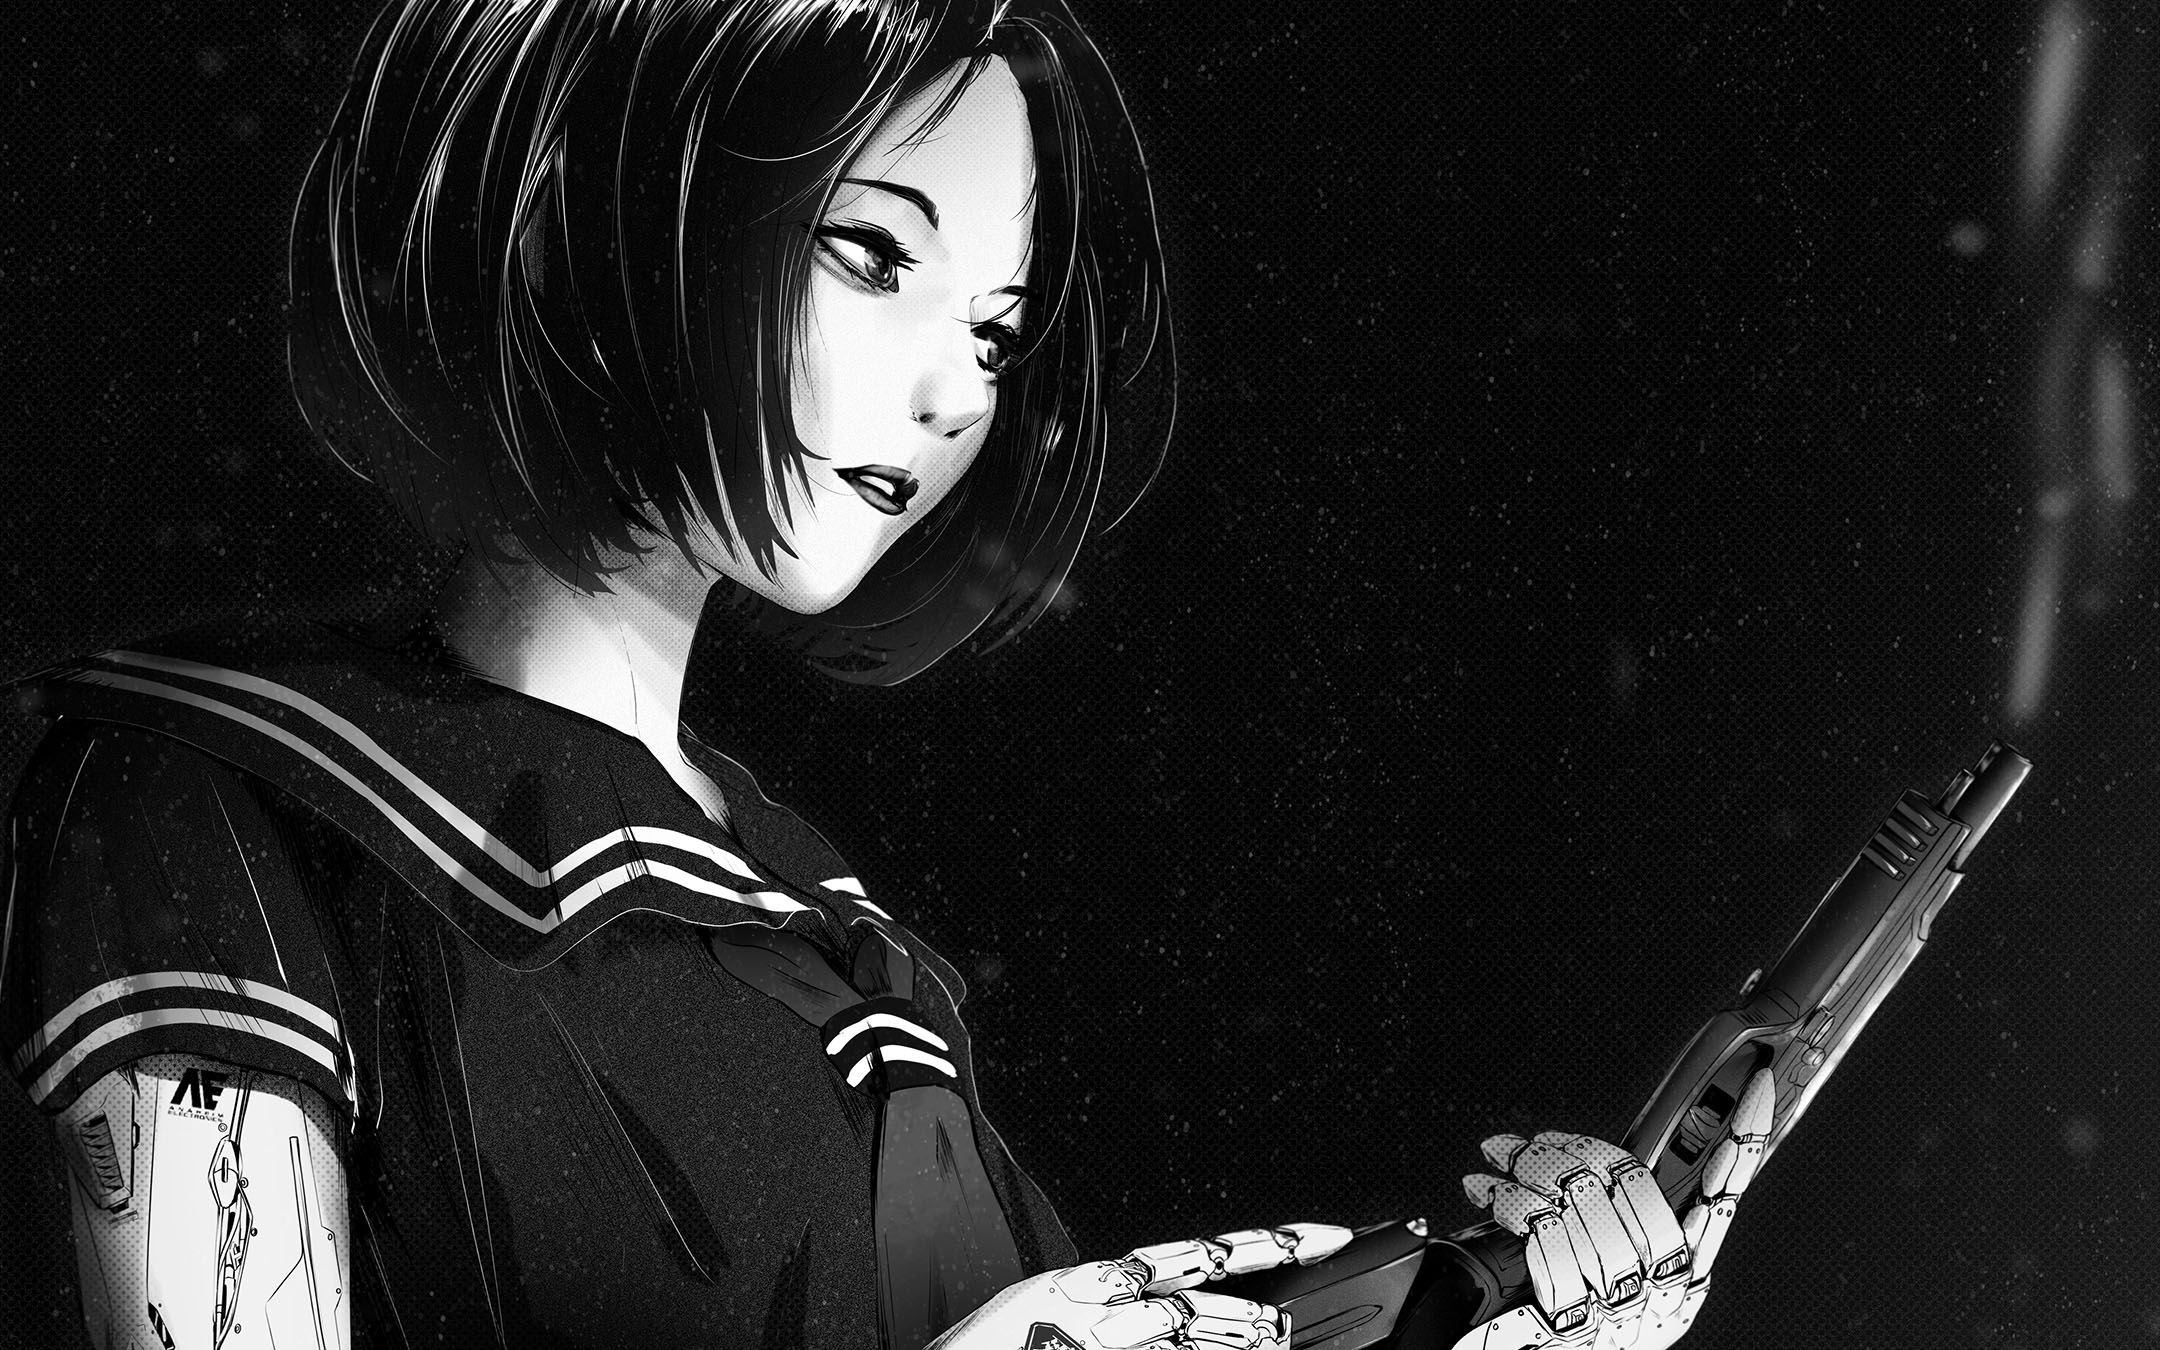
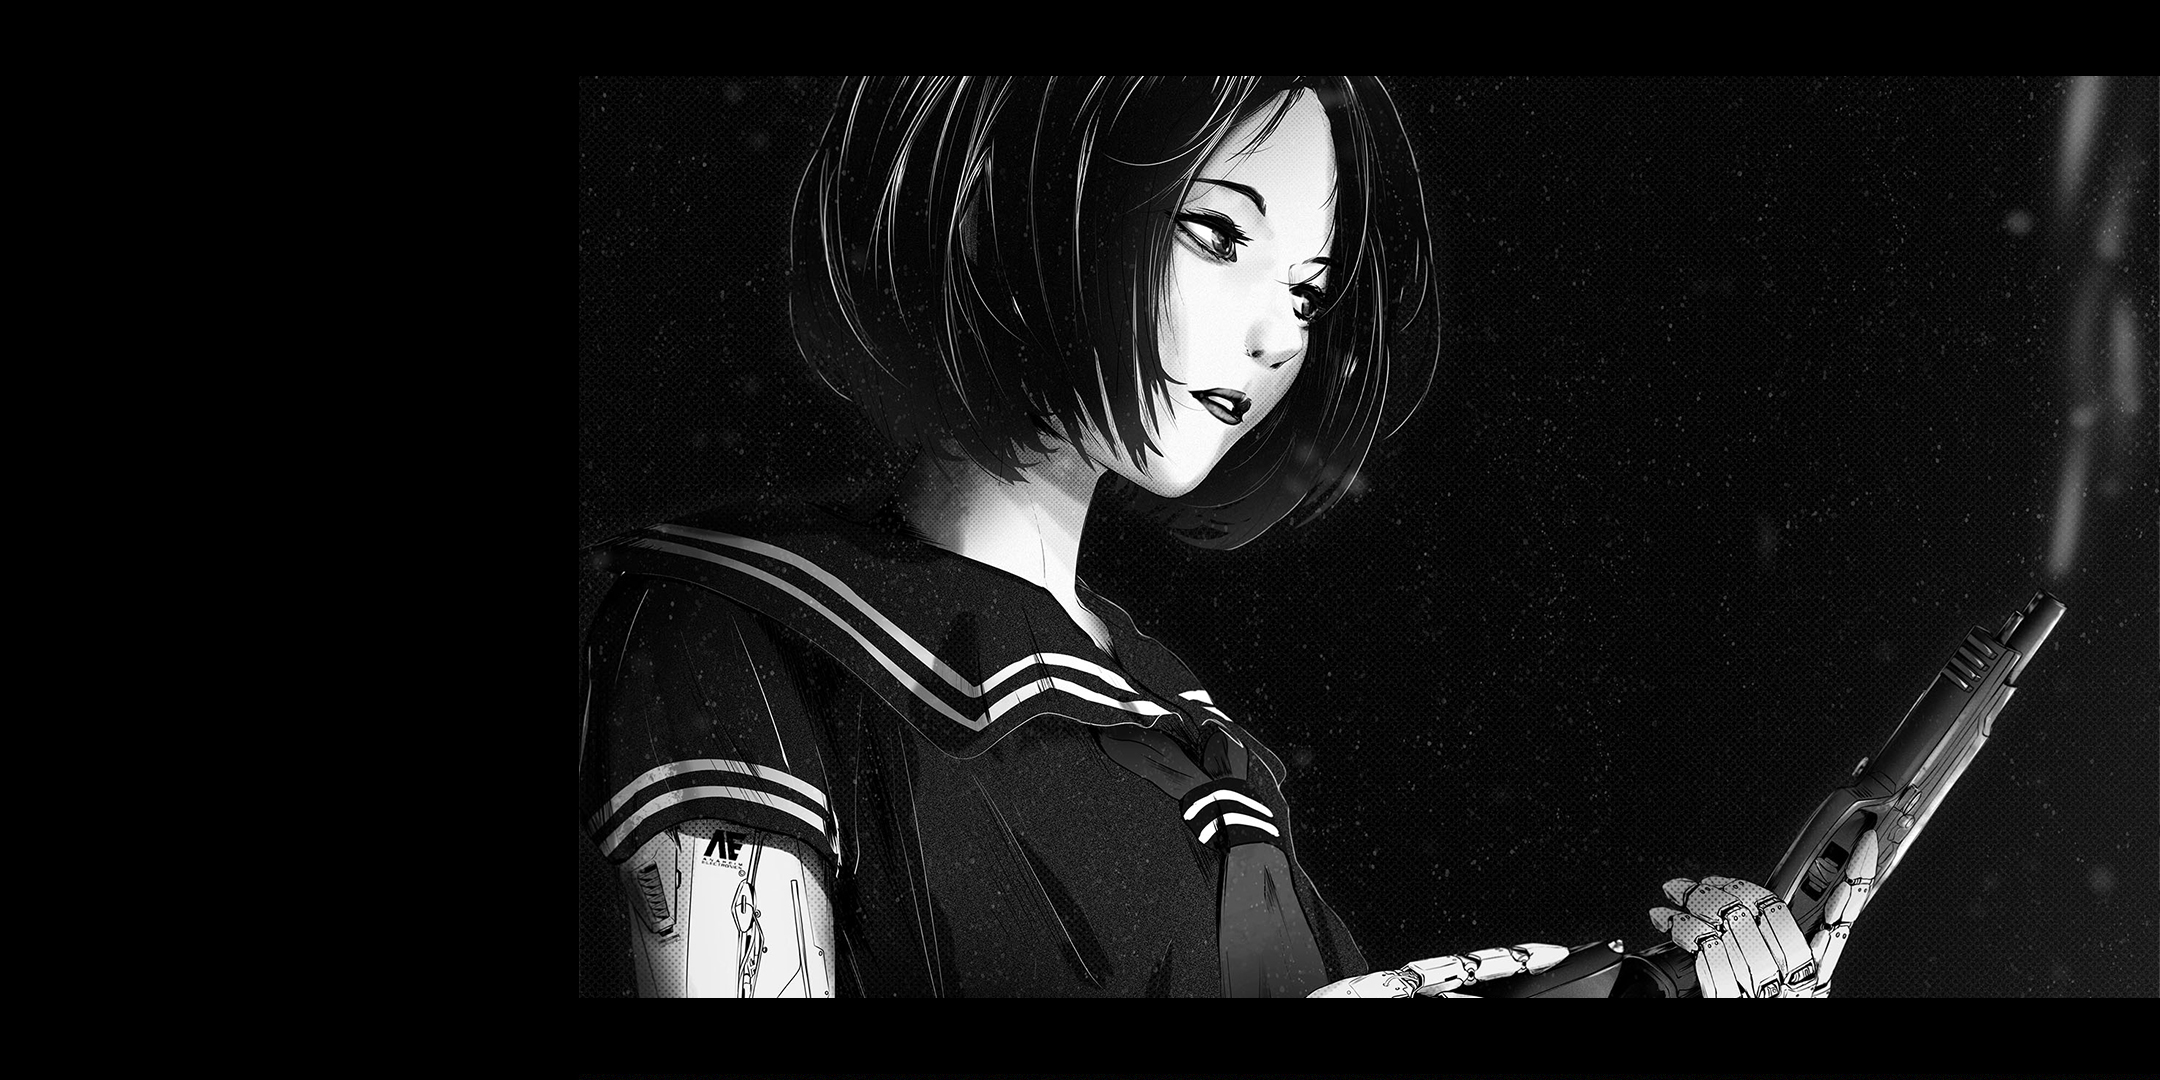
larger image

diff --git a/lifeanddeath.html b/lifeanddeath.html
@@ -211,9 +211,9 @@ $(document).ready(function(){
   </div>
 
 <div class="front_artwork_bottom">
-    <img style ="max-height: 1200px;" class="cyberpunk_hifumi_resize" src="images/raymond_lam_lifeanddeath_IG_(2)_blur.jpg" data-src="images/raymond_lam_lifeanddeath_IG_(2).jpg" data-srcset="images/raymond_lam_lifeanddeath_IG_(2).jpg" alt="man motorcycle anime futuristic neon tokyo"></img>
+    <img style ="max-height: 100%;" class="cyberpunk_hifumi_resize" src="images/raymond_lam_lifeanddeath_IG_(2)_blur.jpg" data-src="images/raymond_lam_lifeanddeath_highrez.jpg" data-srcset="images/raymond_lam_lifeanddeath_highrez.jpg" alt="man motorcycle anime futuristic neon tokyo"></img>
     <div class="image_assets">
-          <a href="images/raymond_lam_lifeanddeath_IG_(2).jpg" class="buttons" target="_blank"><i class="material-icons">crop_free</i></a>
+          <a href="images/raymond_lam_lifeanddeath_highrez.jpg" class="buttons" target="_blank"><i class="material-icons">crop_free</i></a>
       </div>
   </div>
 
